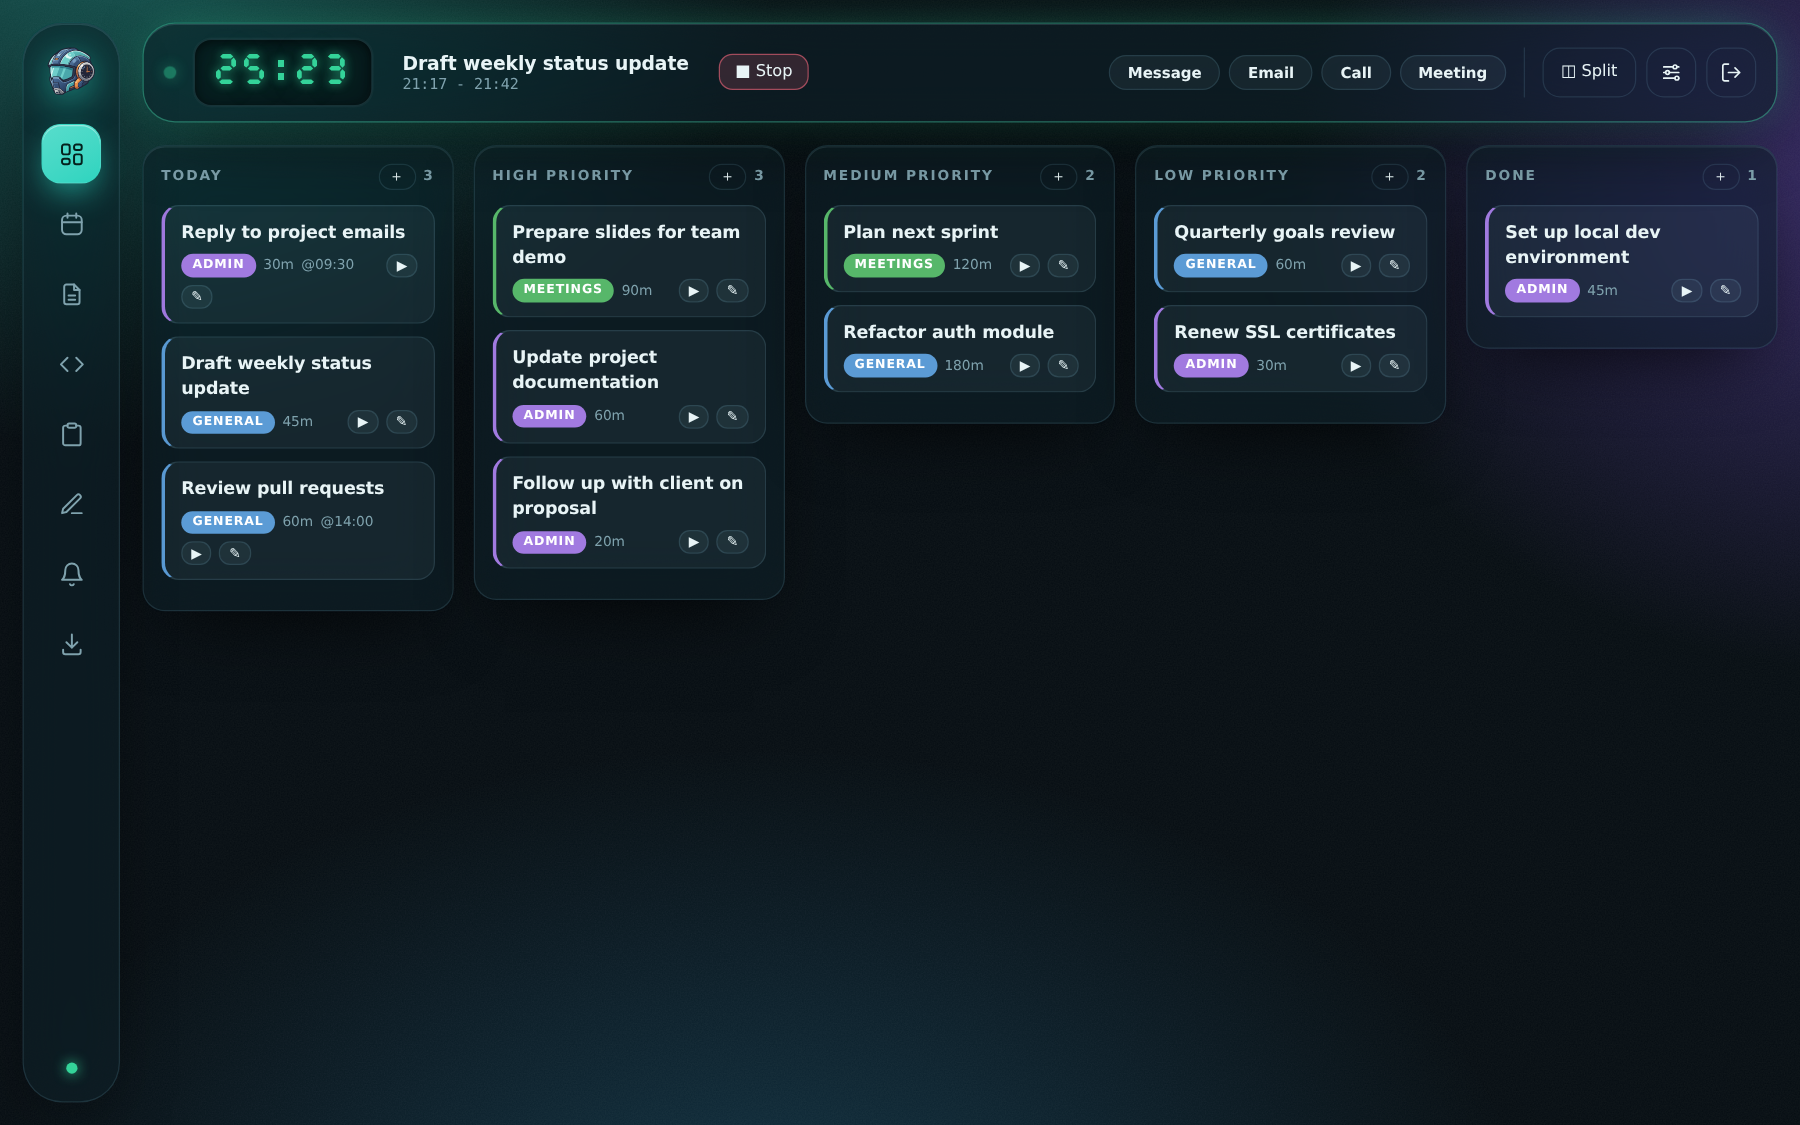
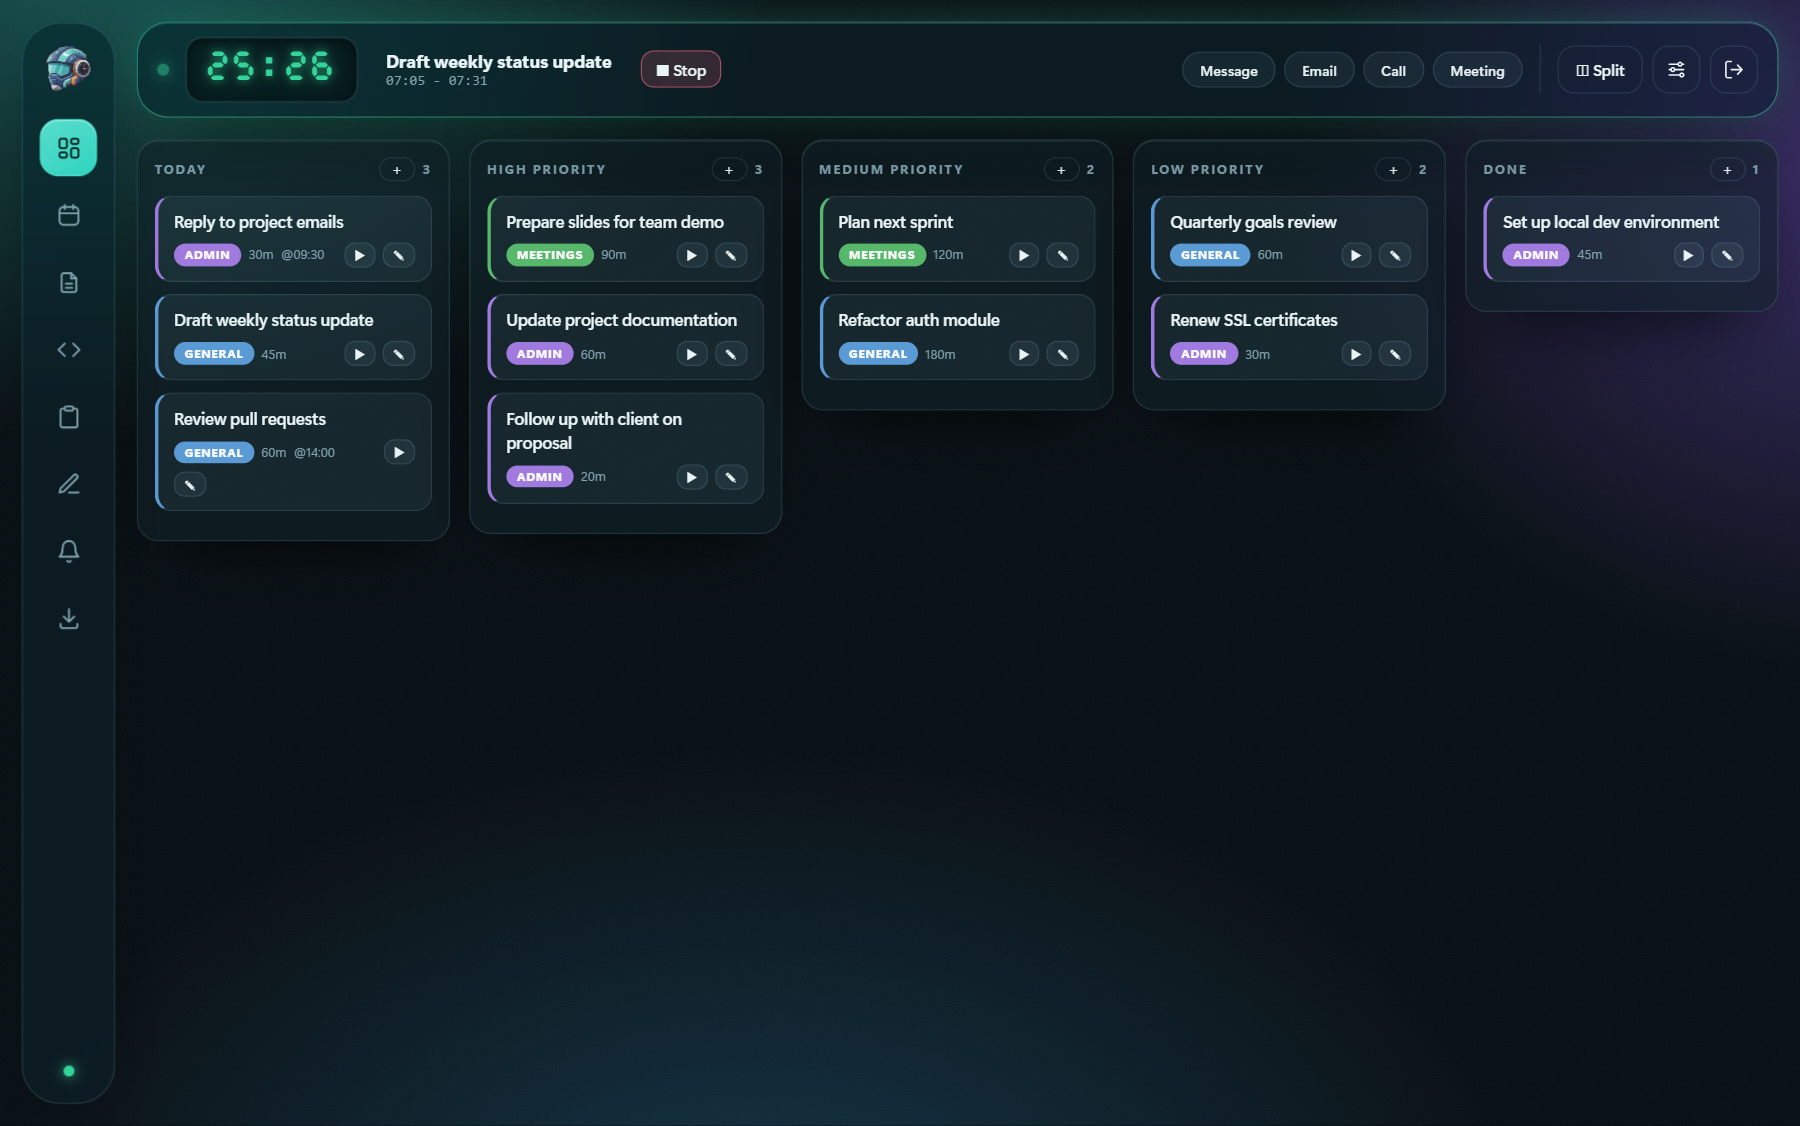
Refresh screenshots without glow; hide demo until it is re-recorded
The animated demo (docs/demo.webp) still shows the old glow, so its README
embed is removed for now. The file is kept for re-use.

Changed region(s): [[0.0, 0.0311, 0.9644, 0.5289], [0.8089, 0.1867, 0.9644, 0.28]]

diff --git a/README.md b/README.md
@@ -12,8 +12,6 @@ rather stay on the classic look.
 
 See [CHANGELOG.md](CHANGELOG.md) for what's changed release to release.
 
-![TimePilot demo](docs/demo.webp)
-
 ![TimePilot 3.0 screenshot](docs/screenshot.png)
 
 ![TimePilot 3.0, Aurora theme](docs/screenshot-aurora.png)
